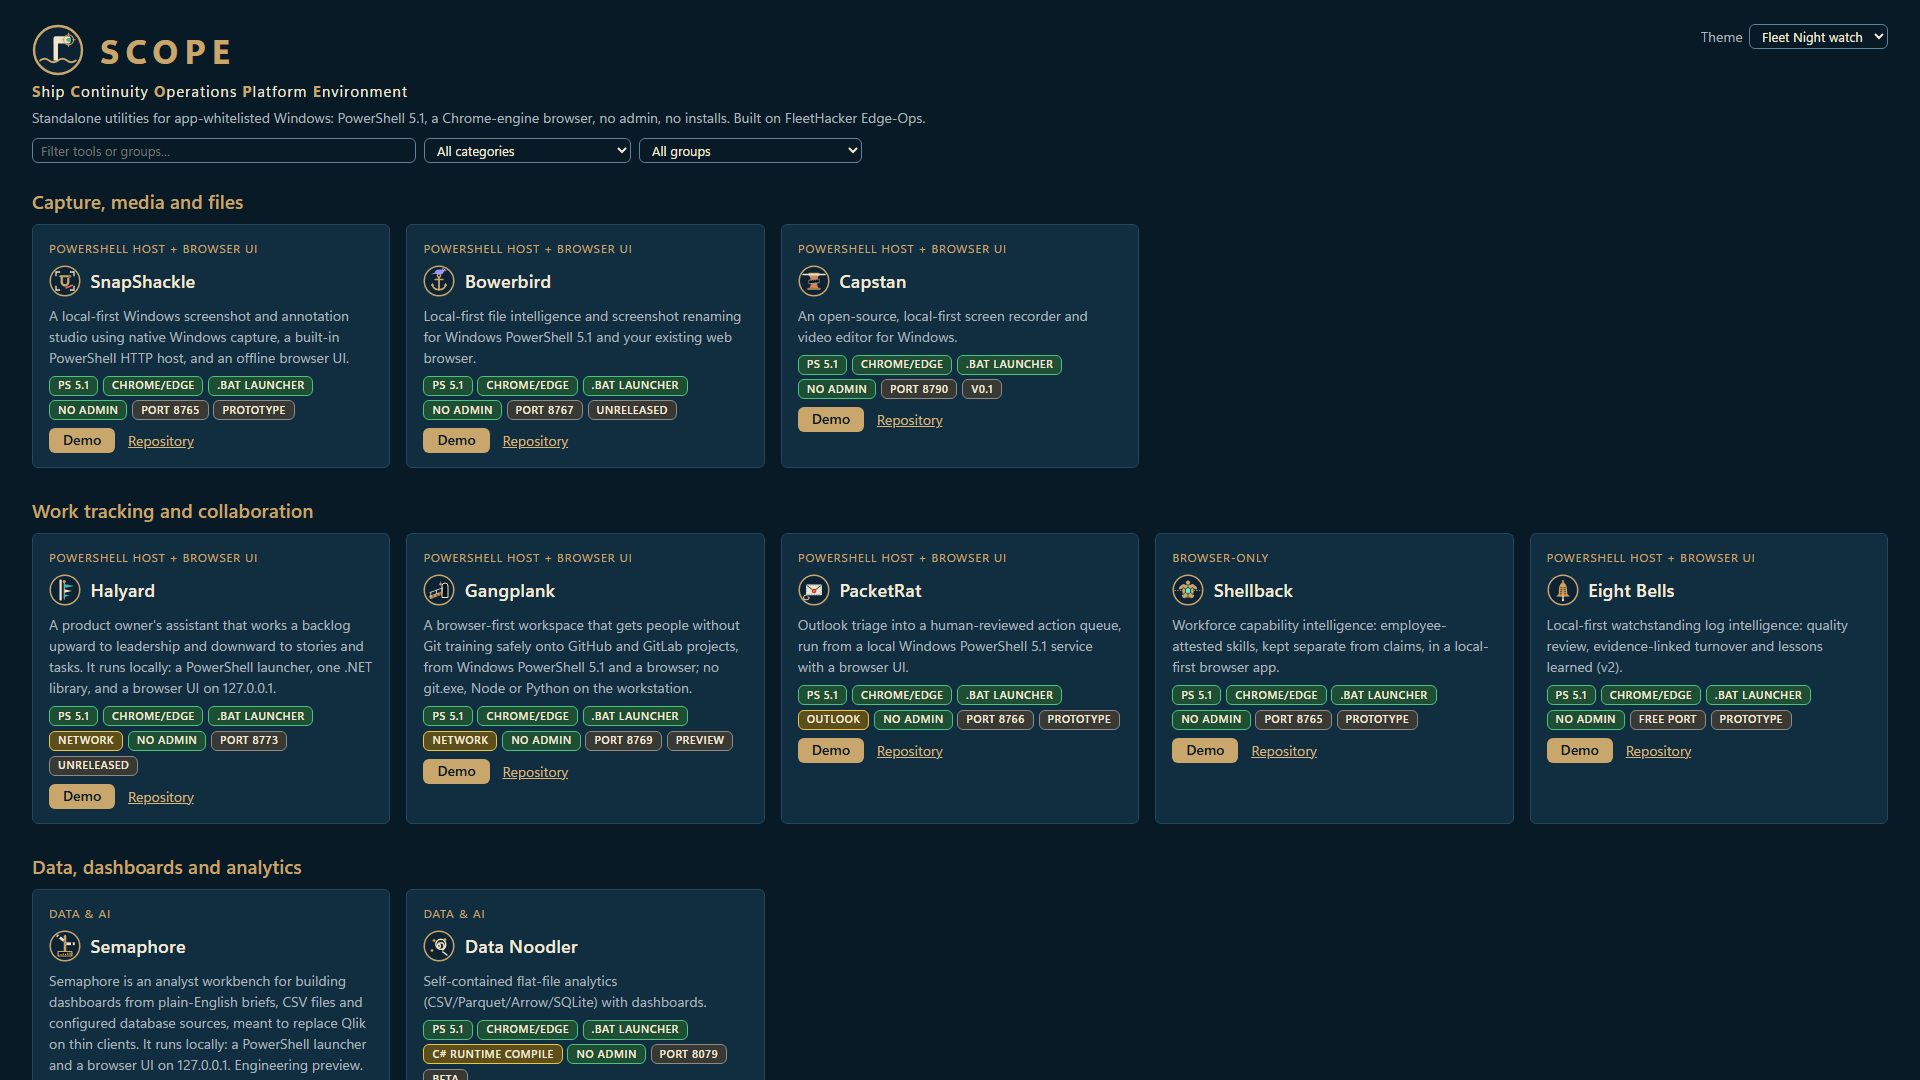
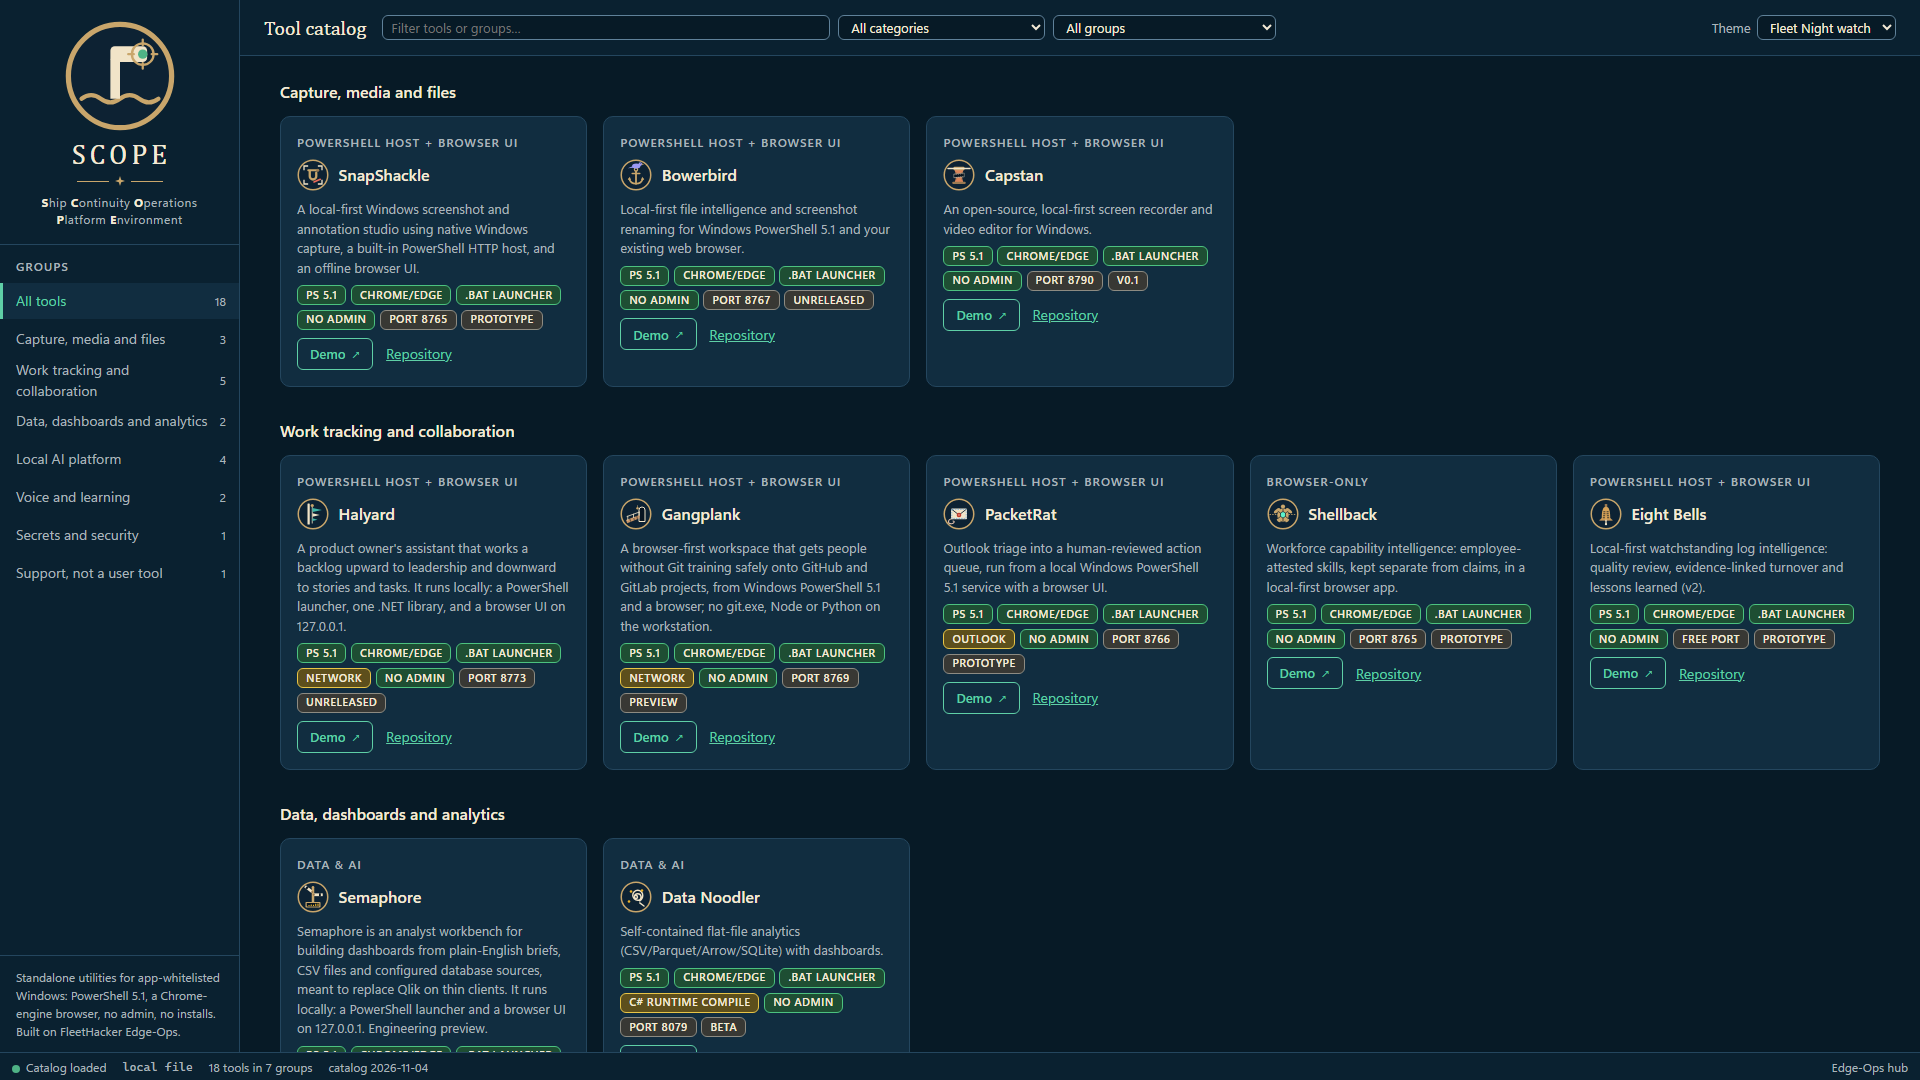
hub: SCOPE skin restyled to the Fleet UI look (shell, serif wordmark, sea-green accent, brass hairlines only)

diff --git a/assets/brand-scope.js b/assets/brand-scope.js
@@ -1,7 +1,9 @@
 /* SCOPE skin for the Edge-Ops hub. Classic script, no build, works from file://. Load it in <head> after theme.js.
    Switch it on with index.html?brand=scope (remembered in localStorage); ?brand=edgeops switches it off and restores the
    theme that was chosen before. With nothing in the URL and nothing remembered, the plain Edge-Ops hub renders unchanged.
-   Same catalog, same tools, same data: only the name, the mark, the subtitle, the favicon and the theme change. */
+   Same catalog, same tools, same data. The skin loads assets/brand-scope.css (the Fleet UI v0.2 look the Fleet apps share),
+   sets the Fleet Night watch theme, retitles the page, and arranges the page into the Fleet shell: a sidebar with the
+   emblem, wordmark and group navigation, a header with the page title and filters, the catalog, and a status bar. */
 (function () {
   'use strict';
   // The expansion wording is not settled. Change it here only: one word per letter; the page shows the initials in bold.
@@ -9,6 +11,8 @@
   var SCOPE_NAME = 'SCOPE';
   var SCOPE_THEME = 'fleet-night-watch';
   var SCOPE_EMBLEM = 'assets/emblems/scope.svg';
+  var SCOPE_CSS = 'assets/brand-scope.css';
+  var SCOPE_PAGE_TITLE = 'Tool catalog';
   var SCOPE_SUBTITLE = 'Standalone utilities for app-whitelisted Windows: PowerShell 5.1, a Chrome-engine browser, no admin, no installs. Built on FleetHacker Edge-Ops.';
   var KEY = 'edge-ops-brand', PREV_THEME_KEY = 'edge-ops-brand-prev-theme';
 
@@ -36,26 +40,92 @@
   document.title = SCOPE_NAME;
   var icon = document.querySelector('link[rel="icon"]');
   if (icon) icon.href = SCOPE_EMBLEM;
+  var css = document.createElement('link'); css.rel = 'stylesheet'; css.href = SCOPE_CSS; document.head.appendChild(css);
 
-  function skin() {
-    var h1 = document.querySelector('header h1');
-    if (!h1) return;
-    h1.textContent = '';
-    var im = document.createElement('img');
-    im.className = 'emblem'; im.src = SCOPE_EMBLEM; im.alt = ''; im.setAttribute('aria-hidden', 'true'); im.width = 52; im.height = 52;
-    var w = document.createElement('span'); w.textContent = SCOPE_NAME;
-    h1.appendChild(im); h1.appendChild(w);
+  function el(tag, cls, text) { var e = document.createElement(tag); if (cls) e.className = cls; if (text != null) e.textContent = text; return e; }
 
-    var ex = document.createElement('p'); ex.className = 'scope-expansion';
+  function brand() {
+    var b = el('div', 'scope-brand');
+    var im = el('img', 'emblem'); im.src = SCOPE_EMBLEM; im.alt = ''; im.setAttribute('aria-hidden', 'true'); im.width = 112; im.height = 112;
+    b.appendChild(im);
+    b.appendChild(el('p', 'scope-wordmark', SCOPE_NAME));
+    // Fleet wordmark rule: brass rules either side of a compass star.
+    var rule = el('div', 'scope-rule'); rule.setAttribute('aria-hidden', 'true');
+    rule.appendChild(el('span'));
+    rule.insertAdjacentHTML('beforeend', '<svg width="10" height="10" viewBox="0 0 10 10"><path d="M5 0 6.2 3.8 10 5 6.2 6.2 5 10 3.8 6.2 0 5 3.8 3.8Z"/></svg>');
+    rule.appendChild(el('span'));
+    b.appendChild(rule);
+    var ex = el('p', 'scope-expansion');
     var words = SCOPE_EXPANSION.split(' ');
     for (var i = 0; i < words.length; i++) {
-      var b = document.createElement('b'); b.textContent = words[i].charAt(0);
-      ex.appendChild(b); ex.appendChild(document.createTextNode(words[i].slice(1) + (i < words.length - 1 ? ' ' : '')));
+      ex.appendChild(el('b', null, words[i].charAt(0)));
+      ex.appendChild(document.createTextNode(words[i].slice(1) + (i < words.length - 1 ? ' ' : '')));
     }
-    var sub = document.createElement('p'); sub.className = 'scope-subtitle'; sub.textContent = SCOPE_SUBTITLE;
-    var p = h1.nextElementSibling;
-    if (p && p.tagName === 'P') p.parentNode.replaceChild(sub, p); else h1.parentNode.appendChild(sub);
-    sub.parentNode.insertBefore(ex, sub);
+    b.appendChild(ex);
+    return b;
   }
-  if (document.readyState === 'loading') document.addEventListener('DOMContentLoaded', skin); else skin();
+
+  // Group navigation drives the hub's own Group filter (the <select id="grp"> that app.js listens to).
+  function nav(data, grp) {
+    var n = el('nav', 'scope-nav'); n.setAttribute('aria-label', 'Groups');
+    n.appendChild(el('div', 'scope-nav-title', 'Groups'));
+    var tools = data.tools || [], groups = (data.groups || []).filter(function (g) { return tools.some(function (t) { return t.group === g.id; }); });
+    var items = [{ id: '', name: 'All tools', n: tools.length }].concat(groups.map(function (g) {
+      return { id: g.id, name: g.name, n: tools.filter(function (t) { return t.group === g.id; }).length };
+    }));
+    var buttons = [];
+    function mark() { buttons.forEach(function (b) { if (b.getAttribute('data-group') === grp.value) b.setAttribute('aria-current', 'page'); else b.removeAttribute('aria-current'); }); }
+    items.forEach(function (it) {
+      var b = el('button', null); b.type = 'button'; b.setAttribute('data-group', it.id);
+      b.appendChild(el('span', null, it.name)); b.appendChild(el('span', 'n', String(it.n)));
+      b.addEventListener('click', function () {
+        grp.value = it.id;
+        var ev = document.createEvent('Event'); ev.initEvent('change', true, true); grp.dispatchEvent(ev);
+        var c = document.querySelector('.scope-content'); if (c) c.scrollTop = 0;
+      });
+      n.appendChild(b); buttons.push(b);
+    });
+    grp.addEventListener('change', mark); mark();
+    return n;
+  }
+
+  function status(data) {
+    var s = el('footer', 'scope-status'); s.setAttribute('aria-label', 'Status');
+    var state = el('span', null); state.setAttribute('role', 'status'); state.appendChild(el('span', 'dot')); state.appendChild(document.createTextNode('Catalog loaded'));
+    s.appendChild(state);
+    s.appendChild(el('span', 'addr', location.protocol === 'file:' ? 'local file' : location.host));
+    var tools = data.tools || [], groups = (data.groups || []).filter(function (g) { return tools.some(function (t) { return t.group === g.id; }); });
+    s.appendChild(el('span', null, tools.length + ' tools in ' + groups.length + ' groups'));
+    if (data.updated) s.appendChild(el('span', null, 'catalog ' + data.updated));
+    s.appendChild(el('span', 'spacer'));
+    s.appendChild(el('span', null, 'Edge-Ops hub'));
+    return s;
+  }
+
+  function shell() {
+    var data = window.EDGE_OPS_CATALOG || { groups: [], tools: [] };
+    var body = document.body, header = document.querySelector('body > header'), grid = document.getElementById('grid');
+    var foot = document.querySelector('body > footer'), grp = document.getElementById('grp');
+    if (!header || !grid || !grp) return;
+
+    var side = el('aside', 'scope-side'); side.setAttribute('aria-label', SCOPE_NAME);
+    side.appendChild(brand());
+    side.appendChild(nav(data, grp));
+    side.appendChild(el('div', 'scope-side-foot', SCOPE_SUBTITLE));
+
+    // Header: page title on the left, the filters, the theme picker on the right. The old subtitle moves to the sidebar foot.
+    var h1 = header.querySelector('h1'); if (h1) h1.textContent = SCOPE_PAGE_TITLE;
+    var sub = header.querySelector('p'); if (sub) sub.parentNode.removeChild(sub);
+    var prefs = header.querySelector('.prefs'); if (prefs) header.appendChild(prefs);
+
+    var main = el('div', 'scope-main');
+    var content = el('div', 'scope-content');
+    main.appendChild(header);
+    content.appendChild(grid);
+    if (foot) { foot.className = 'scope-content-footer'; content.appendChild(foot); }
+    main.appendChild(content);
+
+    body.appendChild(side); body.appendChild(main); body.appendChild(status(data));
+  }
+  if (document.readyState === 'loading') document.addEventListener('DOMContentLoaded', shell); else shell();
 })();

diff --git a/assets/brand-scope.css b/assets/brand-scope.css
@@ -1,0 +1,75 @@
+/* SCOPE skin for the Edge-Ops hub, in the Fleet UI v0.2 look that Halyard, PacketRat and Semaphore share (each repo's
+   docs/UNIFIED-UI.md and vendor/fleet/fleet.css): navy surfaces and ivory text from the hub's Fleet theme tokens, brass
+   only as a hairline (focus ring, the rule under the wordmark), one signature accent for actions, the sidebar / header /
+   status-bar shell, Segoe UI body text and a display serif for the wordmark and page title.
+   Loaded by assets/brand-scope.js only while <html data-brand="scope">; the plain hub never loads it.
+   The literal colours below are SCOPE's own signature accent (Night watch / Chart room) and Fleet brass. Everything else
+   is a theme token, so the Theme picker still switches Night watch and Chart room. */
+:root[data-brand=scope]{
+ --scope-accent:#5fcfa6;--scope-accent-ink:#071a26; /* sea green: 6.2:1 on every Night watch surface, ink 9.3:1 on it */
+ --scope-brass:#c9a66b;
+ --scope-font-display:Cambria,"Cambria Math",Georgia,"Times New Roman",serif; /* fleet.css interim display serif */
+ --scope-side-w:240px;--scope-header-h:56px;--scope-status-h:28px;
+ /* the kit's action, link, brand and focus tokens follow suit, so no control or heading stays brass */
+ --accent:var(--scope-accent);--on-accent:var(--scope-accent-ink);--link:var(--scope-accent);--brand:var(--text);--focus:var(--scope-brass);
+}
+:root[data-brand=scope][data-theme=fleet-chart-room]{--scope-accent:#146650;--scope-accent-ink:#fbfaf2;--scope-brass:#8a6b45}
+
+/* ---- shell: sidebar | main, status bar across (UNIFIED-UI section 5) ---- */
+[data-brand=scope] body{margin:0;height:100vh;display:grid;grid-template-columns:var(--scope-side-w) minmax(0,1fr);grid-template-rows:minmax(0,1fr) var(--scope-status-h);background:var(--bg);color:var(--text);font-size:14px;line-height:1.5}
+[data-brand=scope] .scope-side{grid-row:1;display:flex;flex-direction:column;min-height:0;overflow:auto;background:var(--side-bg);border-right:1px solid var(--border)}
+[data-brand=scope] .scope-brand{display:grid;justify-items:center;gap:8px;padding:20px 16px 16px;border-bottom:1px solid var(--border);text-align:center}
+[data-brand=scope] .scope-brand .emblem{width:112px;height:112px}
+[data-brand=scope] .scope-wordmark{margin:0;font:28px/1 var(--scope-font-display);letter-spacing:.14em;padding-left:.14em;color:var(--text)}
+[data-brand=scope] .scope-rule{display:flex;align-items:center;gap:6px;color:var(--scope-brass)}
+[data-brand=scope] .scope-rule span{height:1px;width:32px;background:currentColor}
+[data-brand=scope] .scope-rule svg{display:block;fill:currentColor}
+[data-brand=scope] .scope-expansion{margin:0;font-size:12px;line-height:1.4;letter-spacing:.04em;color:var(--text-2)}
+[data-brand=scope] .scope-expansion b{color:var(--text)}
+[data-brand=scope] .scope-nav{display:grid;gap:2px;padding:12px 0}
+[data-brand=scope] .scope-nav-title{padding:0 16px 6px;font-size:12px;font-weight:600;letter-spacing:.08em;text-transform:uppercase;color:var(--text-2)}
+[data-brand=scope] .scope-nav button{all:unset;box-sizing:border-box;display:flex;align-items:center;gap:8px;min-height:36px;padding:0 13px;border-left:3px solid transparent;color:var(--text-2);cursor:pointer;font:inherit;text-align:left}
+[data-brand=scope] .scope-nav button:hover{background:var(--panel-2);color:var(--text)}
+[data-brand=scope] .scope-nav button[aria-current=page]{color:var(--scope-accent);border-left-color:var(--scope-accent);background:var(--panel)}
+[data-brand=scope] .scope-nav button:focus-visible{outline:2px solid var(--scope-brass);outline-offset:-2px}
+[data-brand=scope] .scope-nav .n{margin-left:auto;font-size:12px;color:var(--text-2)}
+[data-brand=scope] .scope-side-foot{margin-top:auto;padding:12px 16px;border-top:1px solid var(--border);font-size:12px;color:var(--text-2)}
+[data-brand=scope] .scope-main{grid-row:1;display:grid;grid-template-rows:var(--scope-header-h) minmax(0,1fr);min-width:0;min-height:0}
+[data-brand=scope] header{display:flex;align-items:center;gap:16px;padding:0 24px;background:var(--side-bg);border-bottom:1px solid var(--border)}
+[data-brand=scope] header h1{margin:0;font:20px/1.25 var(--scope-font-display);letter-spacing:0;color:var(--text);white-space:nowrap}
+[data-brand=scope] header .controls{flex:1;min-width:0;gap:8px}
+[data-brand=scope] header #q{flex:1 1 16rem;max-width:28rem}
+[data-brand=scope] header .prefs{float:none;margin:0 0 0 auto;font-size:13px}
+[data-brand=scope] .scope-content{overflow:auto;min-height:0;padding:24px 32px 32px}
+[data-brand=scope] .scope-content>*{max-width:1600px;margin-left:auto;margin-right:auto}
+[data-brand=scope] #grid{padding:0}
+[data-brand=scope] .scope-content-footer{display:flex;gap:12px;flex-wrap:wrap;border-top:1px solid var(--border);padding:24px 0 0;margin-top:48px;font-size:12px;color:var(--text-2)}
+[data-brand=scope] .scope-content-footer a{color:var(--text-2)}
+[data-brand=scope] .scope-status{grid-column:1/-1;grid-row:2;display:flex;align-items:center;gap:16px;padding:0 12px;background:var(--side-bg);border-top:1px solid var(--border);color:var(--text-2);font-size:12px;white-space:nowrap;overflow:hidden}
+[data-brand=scope] .scope-status .dot{display:inline-block;width:8px;height:8px;border-radius:50%;background:var(--ok);margin-right:6px;vertical-align:middle}
+[data-brand=scope] .scope-status .addr{font-family:var(--mono)}
+[data-brand=scope] .scope-status .spacer{flex:1}
+
+/* ---- catalog: groups and cards (sections 4 and 6: type scale, 10 px card radius, borders not shadows) ---- */
+[data-brand=scope] .group{margin:0 0 32px}
+[data-brand=scope] .group-title{margin:0 0 12px;font-size:16px;font-weight:600;color:var(--text)}
+[data-brand=scope] .group-note{margin:0 0 12px;font-size:13px}
+[data-brand=scope] .cards{gap:16px}
+[data-brand=scope] .card{background:var(--panel);border:1px solid var(--border);border-radius:10px;box-shadow:none;padding:16px;gap:8px}
+[data-brand=scope] .cat{font-size:12px;font-weight:600;letter-spacing:.08em;color:var(--text-2)}
+[data-brand=scope] .card h3{font-size:16px;font-weight:600}
+[data-brand=scope] .card h3 a{color:var(--text)}
+[data-brand=scope] .card p{font-size:13px}
+[data-brand=scope] .links a{color:var(--scope-accent)}
+[data-brand=scope] .btn.demo{height:32px;padding:0 12px;border-radius:6px;border:1px solid var(--scope-accent);background:transparent;color:var(--scope-accent);font-size:13px;font-weight:500;font-family:inherit}
+[data-brand=scope] .btn.demo::after{content:"\2197";font-size:12px}
+[data-brand=scope] .btn.demo:hover{background:var(--scope-accent);color:var(--scope-accent-ink);filter:none}
+
+@media (max-width:1023px){
+ [data-brand=scope] body{height:auto;min-height:100vh;grid-template-columns:minmax(0,1fr);grid-template-rows:auto minmax(0,1fr) var(--scope-status-h)}
+ [data-brand=scope] .scope-side{grid-row:1;border-right:0;border-bottom:1px solid var(--border)}
+ [data-brand=scope] .scope-main{grid-row:2;grid-template-rows:auto minmax(0,1fr)}
+ [data-brand=scope] header{flex-wrap:wrap;padding:12px 16px}
+ [data-brand=scope] .scope-content{padding:16px}
+ [data-brand=scope] .scope-status{grid-row:3}
+}

diff --git a/assets/style.css b/assets/style.css
@@ -23,9 +23,3 @@ main:focus{outline:none}
    gives the edge on light themes (>=14.6:1) and the brass ring on dark themes (>=6.2:1), so both clear 3:1 non-text. */
 .card h3 .emblem{flex:none;width:32px;height:32px}
 .tool-title{display:flex;align-items:center;gap:.75rem}.tool-title .emblem{flex:none;width:48px;height:48px}
-/* SCOPE skin (assets/brand-scope.js sets <html data-brand="scope">): wordmark, emblem and expansion line in the header.
-   Tokens only; the colours come from the theme the skin selects. */
-[data-brand=scope] header h1{display:flex;align-items:center;gap:1rem;margin:0 0 .25rem;font-size:2.1rem;letter-spacing:.2em}
-[data-brand=scope] header h1 .emblem{flex:none;width:52px;height:52px}
-[data-brand=scope] .scope-expansion{margin:0 0 .25rem;font-size:.95rem;letter-spacing:.06em;color:var(--text)}
-[data-brand=scope] .scope-expansion b{color:var(--brand)}

diff --git a/README.md b/README.md
@@ -90,7 +90,7 @@ jobs:
 
 - Landing page: `index.html` + `assets/`. Each tool also gets its own page, rendered from `templates/pages/tool-page.html` using `catalog.json`. The 404 page comes from `templates/pages/404.html`.
 - Each card has a **Demo** button. It opens, in a new tab, the tool's loopback address (`http://127.0.0.1:<defaultPort>/`, where the tool serves once you have started it), or, for a tool with no fixed port, its latest release zip or its repository. It never starts the tool; the hover text says what it opens. Support repos have no button. An optional `portNote` in the catalog is added to that hover text.
-- **SCOPE skin:** `index.html?brand=scope` shows the same hub as SCOPE (wordmark, emblem, expansion line, Fleet Night watch theme) and remembers it; `index.html?brand=edgeops` switches back and restores the earlier theme choice. The names, the expansion wording and the theme are the constants at the top of `assets/brand-scope.js`. Nothing else changes: same catalog, same cards.
+- **SCOPE skin:** `index.html?brand=scope` shows the same hub as SCOPE and remembers it; `index.html?brand=edgeops` switches back and restores the earlier theme choice. The skin is the Fleet UI v0.2 look the Fleet apps share (each tool repo's `docs/UNIFIED-UI.md`): the sidebar with emblem, wordmark and group navigation, a header with the page title and filters, a status bar, the Fleet Night watch theme, brass only as a hairline and one signature accent. `assets/brand-scope.js` builds the shell and holds the constants (name, expansion wording, theme); `assets/brand-scope.css` holds the look. Same catalog, same cards.
 - Build locally (Windows PowerShell 5.1 or pwsh 7):
   `powershell.exe -NoProfile -ExecutionPolicy Bypass -File .\scripts\Build-Site.ps1` â†’ `_site/` (git-ignored).
 - Deploy: `templates/workflows/pages-deploy.yml` (manual `workflow_dispatch` only; `dry_run: true` builds and uploads the artifact without deploying).
